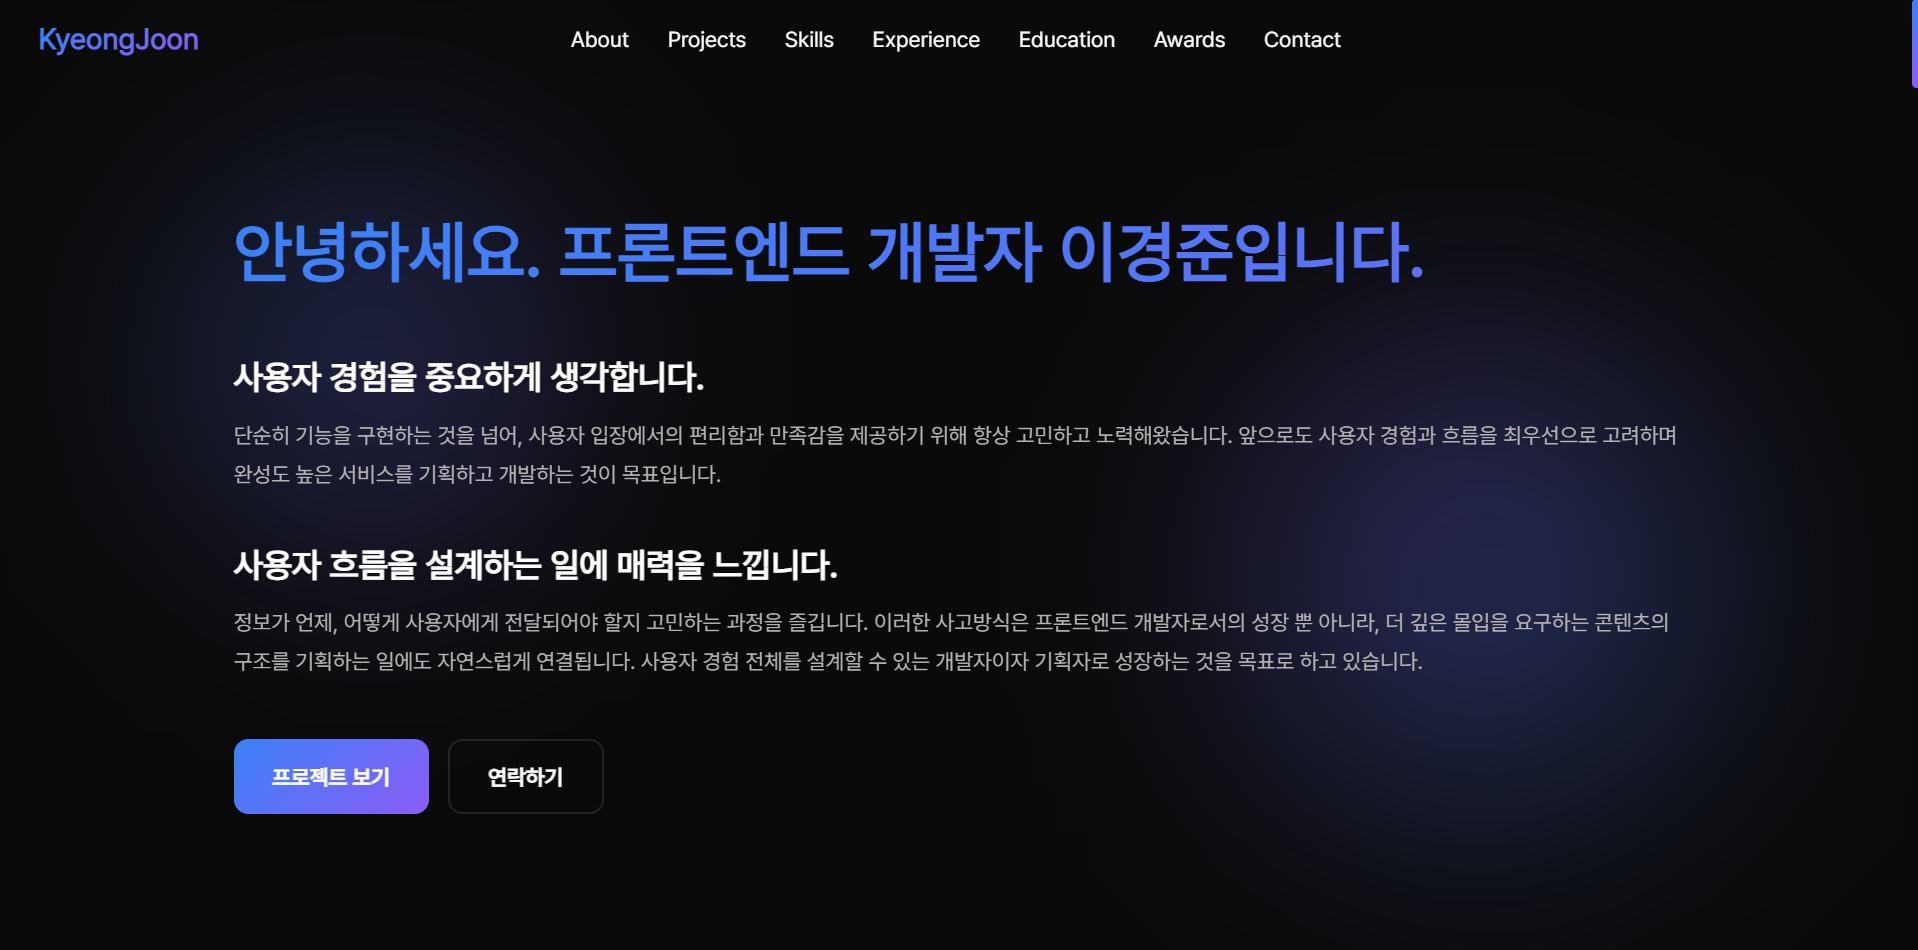
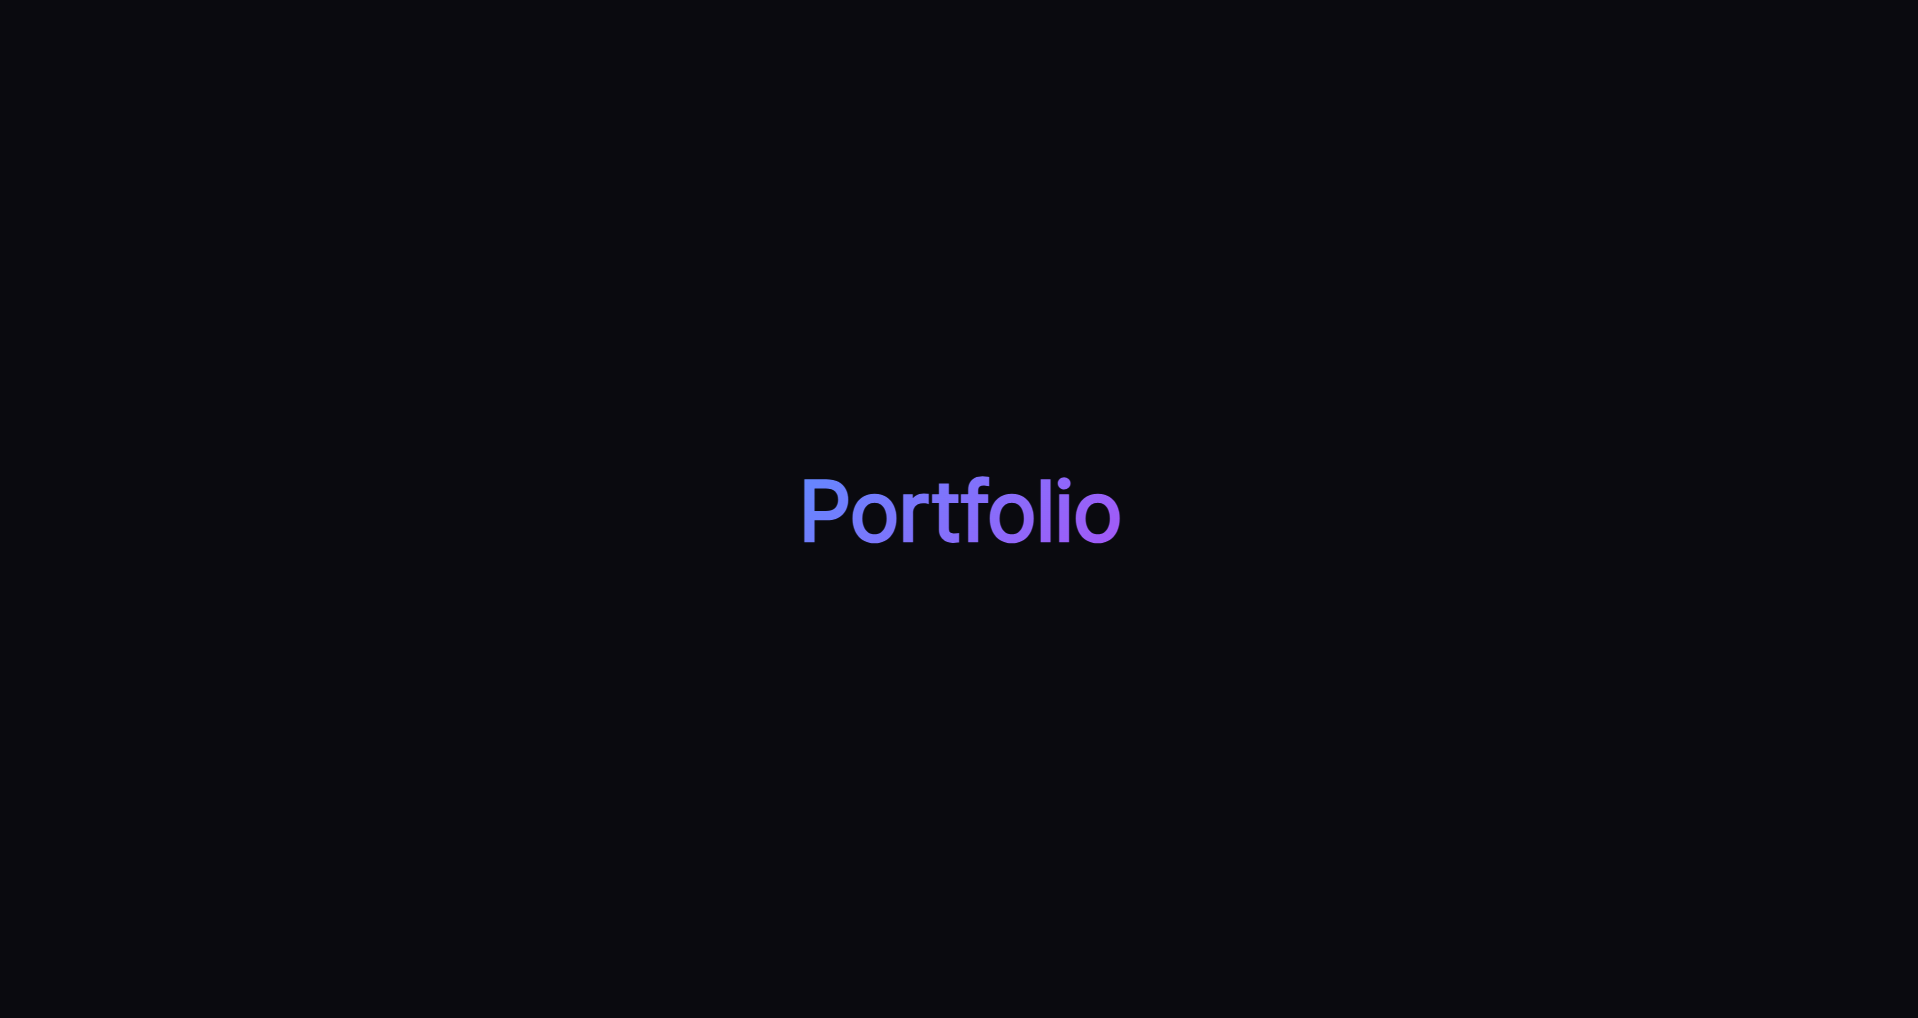
mod: 프로젝트 constants 기간 수정

diff --git a/src/constants/projects.constant.ts b/src/constants/projects.constant.ts
@@ -4,9 +4,18 @@ export const projects: Project[] = [
   {
     image: '/dtalks.png',
     title: 'DTalks',
-    description:
-      'RAG 기반 AI Chatbot을 활용한 사내문서 관리 시스템',
-    tags: ['React', 'TypeScript', 'Styled-Components', 'React Query', 'Zustand', 'React Hook Form', 'Yup', 'Vite', 'KakaoCloud'],
+    description: 'RAG 기반 AI Chatbot을 활용한 사내문서 관리 시스템',
+    tags: [
+      'React',
+      'TypeScript',
+      'Styled-Components',
+      'React Query',
+      'Zustand',
+      'React Hook Form',
+      'Yup',
+      'Vite',
+      'KakaoCloud',
+    ],
     links: {
       demo: 'https://youtu.be/FJiiPrAlXc8',
       github: 'https://github.com/DTaIks',
@@ -33,7 +42,6 @@ export const projects: Project[] = [
       '└ 버전 간 수정사항 비교 기능',
       '└ 부서별 미디어 파일(문서, 이미지, 음성) 업로드 및 관리',
       '└ FAQ 카테고리 및 문서 등록/편집/삭제 기능',
-
     ],
     contributions: [
       'React+TS 기반 프론트엔드 설계와 공통 UI(Button/Modal 등) 모듈화',
@@ -57,9 +65,19 @@ export const projects: Project[] = [
   {
     image: '/alog.jpg',
     title: 'Alog',
-    description:
-      'AI를 이용한 개발자 친화적 블로그 서비스 Alog',
-    tags: ['React', 'JavaScript', 'Figma', 'Framer Motion', 'React Quill', 'Zustand', 'WebSocket', 'SSE', 'Vite', 'Three.js'],
+    description: 'AI를 이용한 개발자 친화적 블로그 서비스 Alog',
+    tags: [
+      'React',
+      'JavaScript',
+      'Figma',
+      'Framer Motion',
+      'React Quill',
+      'Zustand',
+      'WebSocket',
+      'SSE',
+      'Vite',
+      'Three.js',
+    ],
     links: {
       demo: 'https://youtu.be/ZYel_wNa28c?si=P61EYzMuTr9aQ7Aq',
       github: 'https://github.com/Gachon-Univ-Creative-Code-Innovation',
@@ -78,7 +96,6 @@ export const projects: Project[] = [
       '채팅: 실시간 WebSocket 기반의 쪽지/채팅 기능 지원',
       '알림: 댓글/팔로우/쪽지 등 실시간 알림 실시간 수신 가능',
       '로드맵 추천: 유저의 기술 태그와 관심사 기반으로 커리어 로드맵 추천 기능 제공',
-
     ],
     contributions: [
       'React+JS 설계와 공통 UI 컴포넌트화, Three.js/R3F·Framer Motion 인터랙션 구현',
@@ -102,13 +119,19 @@ export const projects: Project[] = [
     title: 'Portfolio Website',
     description:
       '클린 아키텍처와 디자인 시스템 기반의 확장 가능한 포트폴리오 웹사이트입니다. Panda CSS의 제로 런타임 CSS-in-JS와 체계적인 컴포넌트 구조로 성능과 유지보수성을 극대화했습니다.',
-    tags: ['Next.js', 'TypeScript', 'Panda CSS', 'Framer Motion', 'Iconify React'],
+    tags: [
+      'Next.js',
+      'TypeScript',
+      'Panda CSS',
+      'Framer Motion',
+      'Iconify React',
+    ],
     links: {
       demo: '/',
       github: 'https://github.com/KyeongJooni/Portfolio',
     },
     teamSize: '1명',
-    period: '2024.12 - 진행중',
+    period: '2025.09 - 진행중',
     contributionRate: '100% (Solo)',
     detailedDescription:
       '성능과 확장성을 모두 고려한 현대적인 포트폴리오 웹사이트입니다. Panda CSS의 제로 런타임 특성으로 CSS-in-JS의 성능 문제를 해결하고, Recipe 시스템으로 컴포넌트 변형을 타입 안전하게 관리합니다. 스타일과 로직의 완전한 분리, 토큰 기반 디자인 시스템으로 일관성 있는 UI를 구축했습니다.',
@@ -139,4 +162,3 @@ export const projects: Project[] = [
     ],
   },
 ];
-
